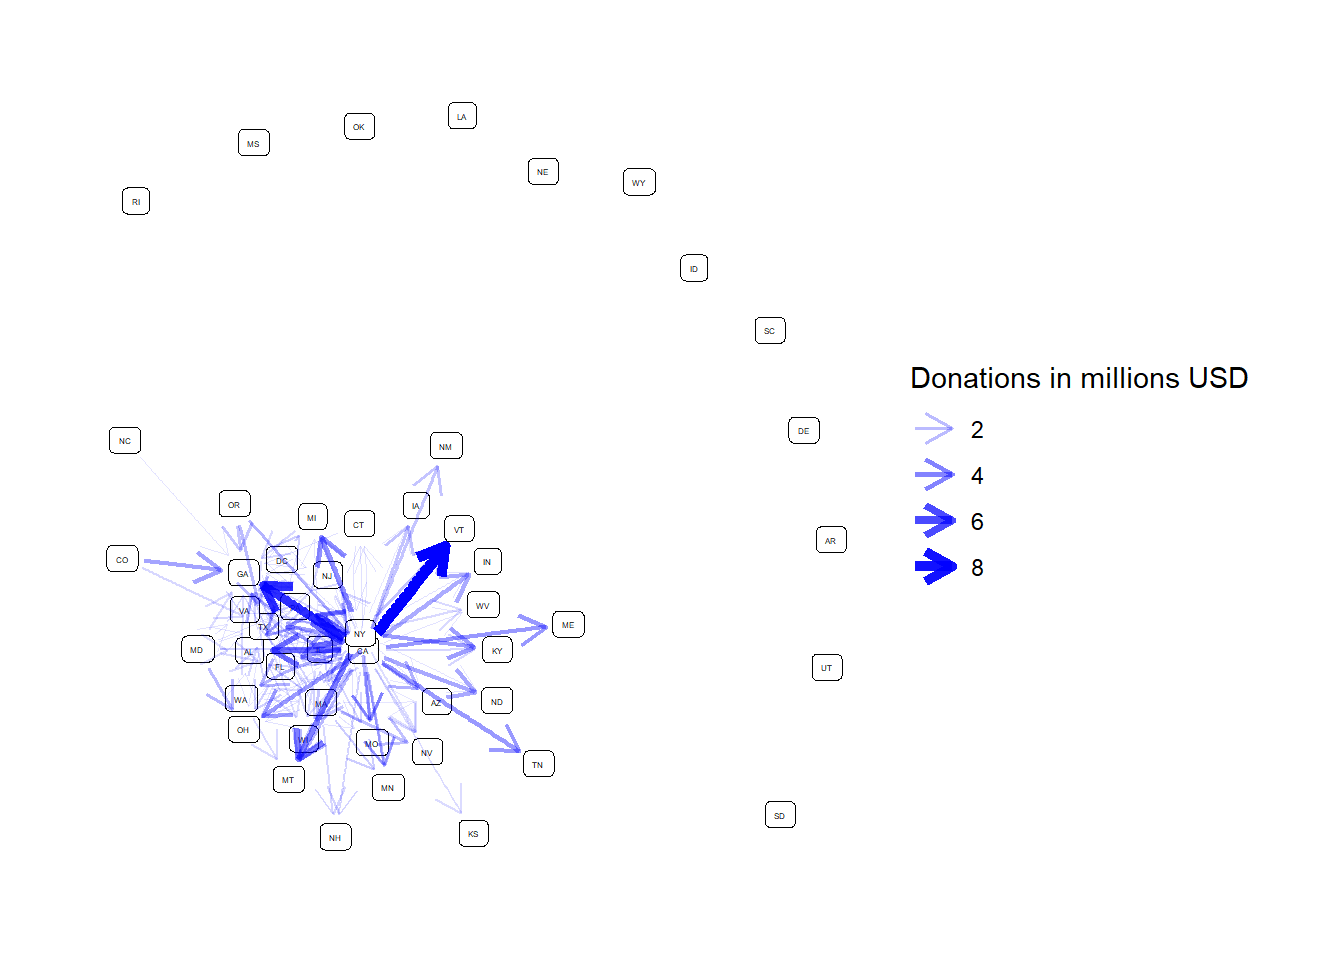
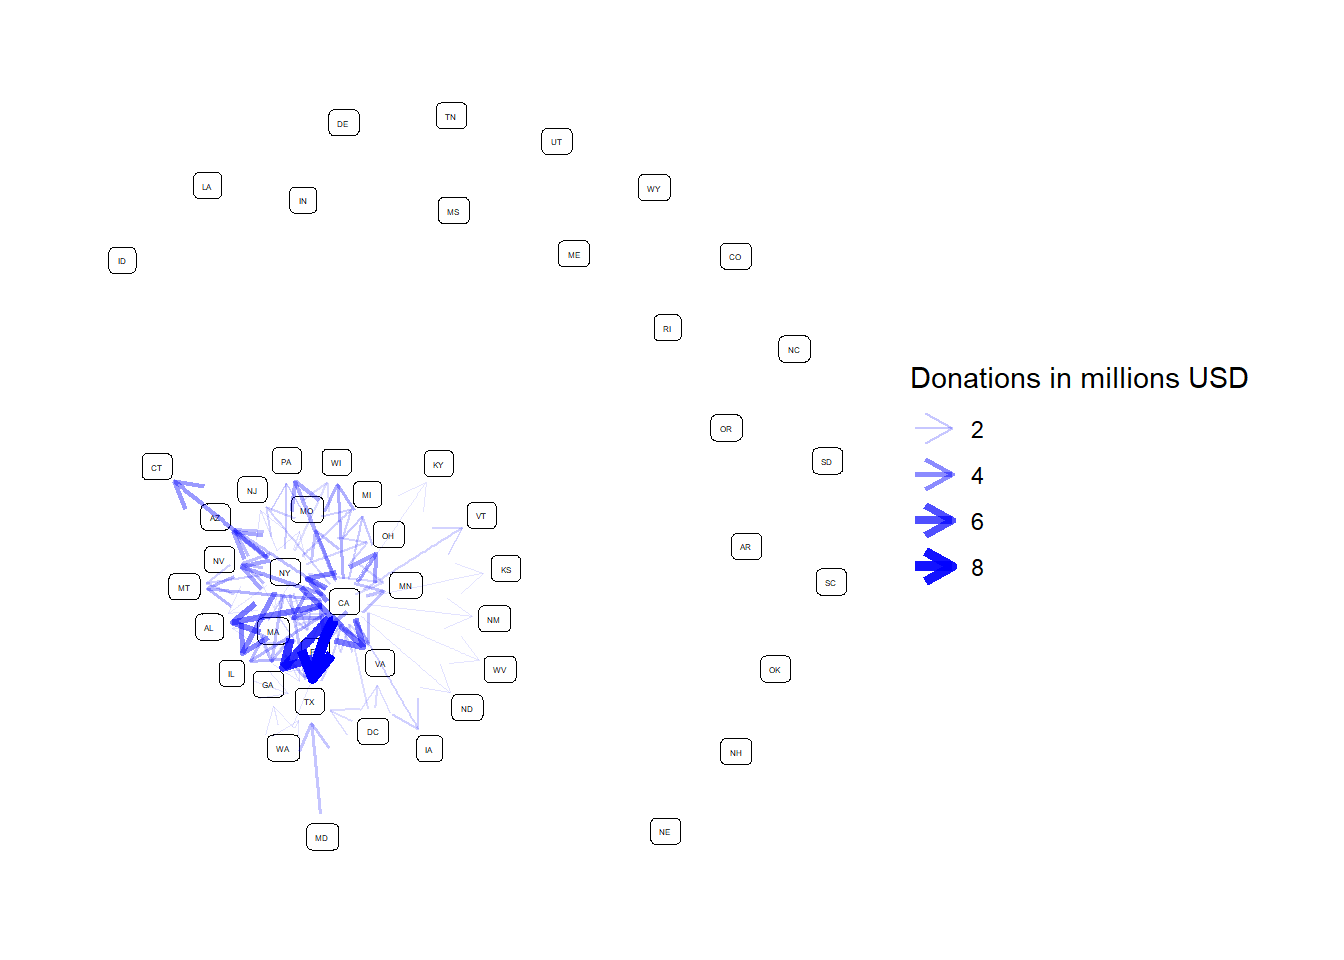
served site

diff --git a/content/post/2018-11-11-actblue-interstate-political-campaign-donations.html b/content/post/2018-11-11-actblue-interstate-political-campaign-donations.html
@@ -11,7 +11,7 @@ tags: []
 
 
 
-<p>ActBlue is a ____ that allows citizens to make donations to the political campaigns of Democractic candidates across the nation. This post uses graph theory to analyze how political donations moved across states.</p>
+<p>ActBlue is an online service that allows people to make donations to the political campaigns of Democractic candidates across the country. This post uses graph theory to analyze how political donations moved across states.</p>
 <div id="setup" class="section level2">
 <h2>Setup</h2>
 <p>These are the libraries and graph theme I will use:</p>
@@ -43,7 +43,7 @@ head(states)</code></pre>
 ## 6 MULTIPOLYGON (((-73.49902 4... connecticut</code></pre>
 <p>This code finds the center of each state, which will act as the nodes for the network graph.</p>
 <pre class="r"><code>states &lt;- cbind(states, st_coordinates(st_centroid(states)))</code></pre>
-<p>I used <a href="https://www.infoplease.com/state-abbreviations-and-state-postal-codes">this file</a> to get the abbreviations for each state.</p>
+<p>I used <a href="https://www.infoplease.com/state-abbreviations-and-state-postal-codes">this website</a> to get the abbreviations for each state.</p>
 <pre class="r"><code>state_abbreviations &lt;- read_csv(&quot;https://raw.githubusercontent.com/conorotompkins/politics/master/data/state_abbreviations.csv&quot;) %&gt;% 
   clean_names() %&gt;% 
   mutate(state_district = tolower(state_district)) %&gt;% 
@@ -71,7 +71,7 @@ df %&gt;%
 ##   &lt;chr&gt;             &lt;int&gt;
 ## 1 contributor_state    49
 ## 2 recipient_state      49</code></pre>
-<p>This code excludes non-continental U.S. states/territories.</p>
+<p>This code joins the boundary data with the ActBlue data and excludes donations to and from non-continental U.S. states/territories.</p>
 <pre class="r"><code>states %&gt;% 
   semi_join(df, by = c(&quot;abbr&quot; = &quot;contributor_state&quot;)) %&gt;% 
   semi_join(df, by = c(&quot;abbr&quot; = &quot;recipient_state&quot;))  -&gt; states</code></pre>
@@ -93,12 +93,12 @@ df %&gt;%
 </div>
 <div id="first-attempt" class="section level2">
 <h2>First attempt</h2>
-<p>This is how the data looks when graphed as a typical network graph. The nodes (states) are not positioned geographically, which makes it difficult to understand. Aggregate donations less than $500,000 are excluded.</p>
+<p>This is how the data looks when graphed as a typical network graph. The nodes (states) are not positioned geographically, which makes it difficult to understand. Aggregate donations less than $1,000,000 are excluded.</p>
 <pre class="r"><code>df_intermediate %&gt;% 
   as_tbl_graph(directed = TRUE) %&gt;% 
   activate(edges) %&gt;% 
-  filter(sum &gt;= .5) %&gt;% 
-  ggraph() +
+  filter(sum &gt;= 1) %&gt;% 
+  ggraph(layout =) +
   geom_node_label(aes(label = name), size = 1, repel = FALSE) +
   geom_edge_fan(aes(edge_width = sum, edge_alpha = sum),
                 arrow = arrow(length = unit(4, &#39;mm&#39;)), 
@@ -111,7 +111,7 @@ df %&gt;%
 </div>
 <div id="mapping-node-positions-to-state-geography" class="section level2">
 <h2>Mapping node positions to state geography</h2>
-<p>This code turns the data into a network file and sets the threshhold at $1 million</p>
+<p>This code turns the data into a network object and sets the minimum threshhold at $1 million</p>
 <pre class="r"><code>df_intermediate %&gt;% 
   as_tbl_graph(directed = TRUE) -&gt; g
 
@@ -139,21 +139,26 @@ manual_layout &lt;- create_layout(graph = g,
 <p>This is the final graph:</p>
 <pre class="r"><code>ggraph(manual_layout) +
   geom_sf(data = states) +
-  #geom_node_label(aes(label = name), size = 1, repel = FALSE) +
+  geom_node_point(size = .5, alpha = 0) +
   geom_edge_fan(aes(edge_width = sum, edge_alpha = sum),
                 arrow = arrow(length = unit(4, &#39;mm&#39;)), 
-                start_cap = circle(3, &#39;mm&#39;),
-                end_cap = circle(3, &#39;mm&#39;),
+                start_cap = circle(1, &#39;mm&#39;),
+                end_cap = circle(1, &#39;mm&#39;),
                 color = &quot;blue&quot;) +
   scale_edge_width_continuous(&quot;Donations in millions USD&quot;, range = c(.3, 2)) +
   scale_edge_alpha_continuous(&quot;Donations in millions USD&quot;, range = c(.1, 1)) +
   labs(title = &quot;ActBlue Political Donations&quot;,
-       subtitle = str_c(&quot;Aggregate interstate donations greater than $&quot;, threshhold, &quot; million USD&quot;),
+       subtitle = str_c(&quot;Aggregate interstate donations greater than $&quot;, threshhold, &quot; million USD, 2017-01-01 to 2018-09-30&quot;),
        caption = &quot;@conorotompkins, data from Center for Public Integrity and 538&quot;) +
   theme(panel.grid.major = element_line(colour = &#39;transparent&#39;)) -&gt; p
 
 p</code></pre>
 <p><img src="/post/2018-11-11-actblue-interstate-political-campaign-donations_files/figure-html/unnamed-chunk-14-1.png" width="672" /></p>
+</div>
+<div id="to-and-from" class="section level2">
+<h2>To and From</h2>
+<p>This shows all the donations from California. Note the different scale of funds. <img src="/post/2018-11-11-actblue-interstate-political-campaign-donations_files/figure-html/unnamed-chunk-15-1.png" width="672" /></p>
+<p>This shows the donations to candidates in Texas. Note the different scale of funds. <img src="/post/2018-11-11-actblue-interstate-political-campaign-donations_files/figure-html/unnamed-chunk-16-1.png" width="672" /></p>
 </div>
 <div id="references" class="section level2">
 <h2>References</h2>
